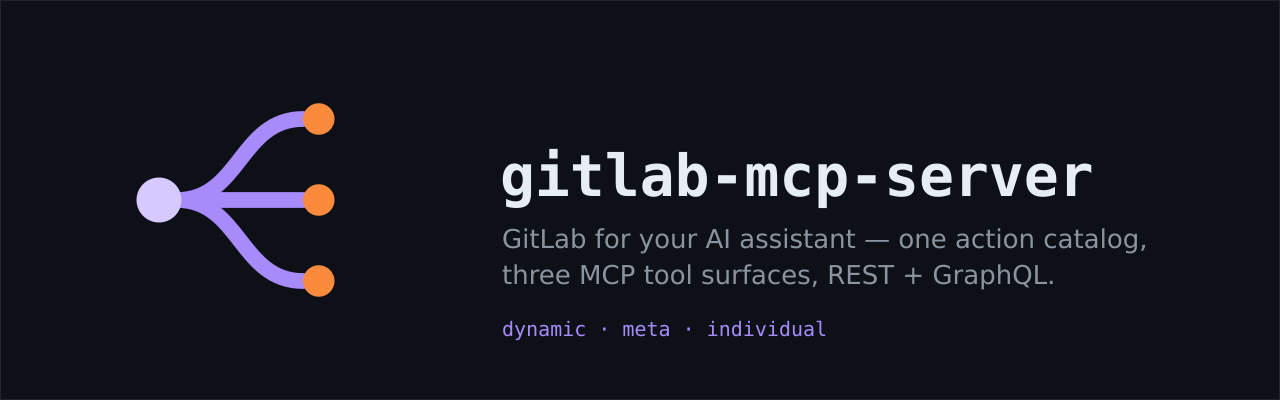
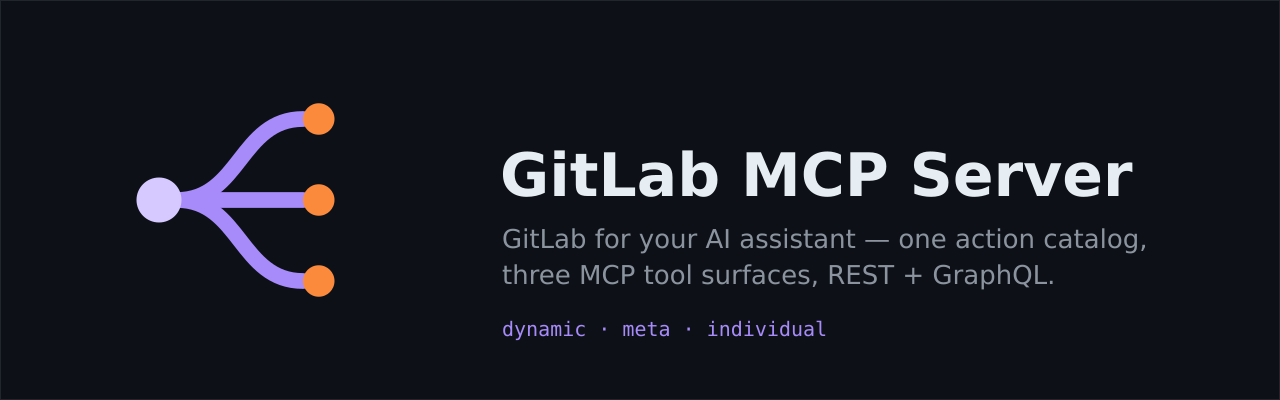
feat(site): page-title chips with a parity gate, and the display name on every presentation surface
Phase 5 (chips): frontmatter chips (zod-capped at four, qualities never
counts) rendered by a PageTitle override; link chips take the accent
ring via new chip-link tokens, measured by the contrast gate (66 pairs
now). Four page pairs carry them (getting started, configuration,
tools overview, compatibility), EN and ES in the same commit.
scripts/check-chips.mjs gates EN-ES chip parity and href existence in
pnpm lint — a frontmatter href is invisible to the links validator —
and was proven by breaking it both ways before trusting it.

Naming: the display name is "GitLab MCP Server" on presentation
surfaces (banner and OG wordmark in the sans, aria labels, landing
copy); the slug stays where it is an identifier (repo, commands,
packages).

Changed region(s): [[0.375, 0.36, 0.9062, 0.54]]

diff --git a/site/src/data/home.ts b/site/src/data/home.ts
@@ -75,7 +75,7 @@ const INSTALL = `claude mcp add gitlab --env GITLAB_URL=https://gitlab.example.c
   ghcr.io/jmrplens/gitlab-mcp-server:latest --http=false`;
 
 export const en: HomeContent = {
-	statsLabel: "gitlab-mcp-server at a glance",
+	statsLabel: "GitLab MCP Server at a glance",
 	statLabels: {
 		dynamic: "tools in the default dynamic surface",
 		tools: "individual tools at the widest tier",
@@ -91,7 +91,7 @@ export const en: HomeContent = {
 	what: {
 		title: "What it is",
 		body: [
-			'<strong>gitlab-mcp-server</strong> is a <a href="https://modelcontextprotocol.io">Model Context Protocol</a> server, written in Go, that lets an AI assistant work your GitLab for you: review merge requests, triage pipelines, manage issues, draft releases. It covers the REST v4 and GraphQL APIs and runs against GitLab.com or any self-hosted instance, Community or Enterprise Edition.',
+			'<strong>GitLab MCP Server</strong> is a <a href="https://modelcontextprotocol.io">Model Context Protocol</a> server, written in Go, that lets an AI assistant work your GitLab for you: review merge requests, triage pipelines, manage issues, draft releases. It covers the REST v4 and GraphQL APIs and runs against GitLab.com or any self-hosted instance, Community or Enterprise Edition.',
 			"You talk to your assistant, not to the tools. One canonical action catalog is projected into three tool surfaces, so the same operations fit a low-token client, a domain-tool client, or one tool per operation — and the assistant picks arguments from typed schemas, not from prose.",
 			"It ships as one static binary (or a container) for Linux, macOS and Windows, speaking stdio for a local client or HTTP for a shared, multi-user deployment.",
 		],
@@ -201,7 +201,7 @@ export const en: HomeContent = {
 };
 
 export const es: HomeContent = {
-	statsLabel: "gitlab-mcp-server de un vistazo",
+	statsLabel: "GitLab MCP Server de un vistazo",
 	statLabels: {
 		dynamic: "tools en la superficie dinámica por defecto",
 		tools: "tools individuales en el tier más amplio",
@@ -217,7 +217,7 @@ export const es: HomeContent = {
 	what: {
 		title: "Qué es",
 		body: [
-			'<strong>gitlab-mcp-server</strong> es un servidor <a href="https://modelcontextprotocol.io">Model Context Protocol</a>, escrito en Go, que permite a un asistente de IA trabajar tu GitLab por ti: revisar merge requests, triar pipelines, gestionar issues, redactar releases. Cubre las APIs REST v4 y GraphQL y funciona contra GitLab.com o cualquier instancia autoalojada, Community o Enterprise Edition.',
+			'<strong>GitLab MCP Server</strong> es un servidor <a href="https://modelcontextprotocol.io">Model Context Protocol</a>, escrito en Go, que permite a un asistente de IA trabajar tu GitLab por ti: revisar merge requests, triar pipelines, gestionar issues, redactar releases. Cubre las APIs REST v4 y GraphQL y funciona contra GitLab.com o cualquier instancia autoalojada, Community o Enterprise Edition.',
 			"Tú hablas con tu asistente, no con las herramientas. Un único catálogo canónico de acciones se proyecta en tres superficies de tools, de modo que las mismas operaciones sirven a un cliente de contexto reducido, a uno de tools por dominio o a uno con una tool por operación — y el asistente toma los argumentos de esquemas tipados, no de prosa.",
 			"Se distribuye como un binario estático (o un contenedor) para Linux, macOS y Windows, hablando stdio para un cliente local o HTTP para un despliegue compartido multiusuario.",
 		],

diff --git a/site/src/styles/page-chips.css b/site/src/styles/page-chips.css
@@ -1,0 +1,39 @@
+/* ------------------------------------------------------------------ *
+ * The chip row under a page title (src/components/docs/PageChips.astro).
+ *
+ * Outlined pills, not filled ones: the row sits directly under the largest
+ * type on the page and a run of filled shapes there competes with the title it
+ * is supposed to qualify. The border carries the state, the fill arrives only
+ * on hover, and both are palette tokens so the row follows the theme.
+ * ------------------------------------------------------------------ */
+.page-chips {
+	list-style: none;
+	margin: 0.75rem 0 0;
+	padding: 0;
+	display: flex;
+	flex-wrap: wrap;
+	gap: 0.4rem;
+}
+
+.page-chip {
+	display: inline-block;
+	font-size: var(--sl-text-2xs);
+	line-height: 1.6;
+	padding: 0.12em 0.65em;
+	border: 1px solid var(--gm-chip-line);
+	border-radius: 999px;
+	color: var(--gm-chip-ink);
+	text-decoration: none;
+	white-space: nowrap;
+}
+
+/* A chip that goes somewhere takes the accent ring, so the row reads as
+   "these three are facts, that one is a door". */
+a.page-chip-link {
+	border-color: var(--gm-chip-link-line);
+	color: var(--gm-chip-link-ink);
+}
+a.page-chip-link:hover,
+a.page-chip-link:focus-visible {
+	background: var(--gm-chip-link-fill);
+}

diff --git a/site/src/content.config.ts b/site/src/content.config.ts
@@ -22,6 +22,16 @@ export const collections = {
 				// page-level entity competing with the TechArticle. It also removes
 				// the de-facto 4-question ceiling those copied blocks settled into.
 				faq: z.array(z.object({ q: z.string(), a: z.string() })).optional(),
+				// Page-title chips: at most four short QUALITIES of the page —
+				// "Catalog-first", never "1065 tools". A number typed here would
+				// be a second copy of something stats.json already knows, and a
+				// fifth pill under the largest type on the page turns a
+				// qualifier into a paragraph. A chip with an href is a link and
+				// takes the accent ring; one without is a plain label.
+				chips: z
+					.array(z.object({ text: z.string(), href: z.string().optional() }))
+					.max(4)
+					.optional(),
 			}),
 		}),
 	}),

diff --git a/site/src/styles/theme.css b/site/src/styles/theme.css
@@ -100,6 +100,9 @@
 	   the 3:1 of WCAG 1.4.11 rather than to a decorative threshold. */
 	--gm-chip-ink: var(--sl-color-gray-2);
 	--gm-chip-line: var(--sl-color-gray-4);
+	--gm-chip-link-ink: var(--gm-accent-ink);
+	--gm-chip-link-line: var(--gm-mark);
+	--gm-chip-link-fill: var(--gm-accent-soft);
 	--gm-tier-ink: #f6c390;
 	--gm-tier-line: #9a6a2e;
 	--gm-tier-fill: #3a2710;
@@ -153,6 +156,9 @@
 
 	--gm-chip-ink: var(--sl-color-gray-2);
 	--gm-chip-line: var(--sl-color-gray-4);
+	--gm-chip-link-ink: var(--sl-color-accent);
+	--gm-chip-link-line: var(--gm-mark);
+	--gm-chip-link-fill: var(--gm-accent-soft);
 	--gm-tier-ink: #8a4d10;
 	--gm-tier-line: #bd7c32;
 	--gm-tier-fill: #faeedd;

diff --git a/cmd/gen_brand/main.go b/cmd/gen_brand/main.go
@@ -174,12 +174,12 @@ const svgBrand = `+"`%s`"+`
 // purpose: a figure would go stale between releases; figures live on
 // surfaces the generators re-stamp.
 func bannerSVG() string {
-	return fmt.Sprintf(`<svg xmlns="http://www.w3.org/2000/svg" viewBox="0 0 1280 400" role="img" aria-label="gitlab-mcp-server — GitLab for your AI assistant">
+	return fmt.Sprintf(`<svg xmlns="http://www.w3.org/2000/svg" viewBox="0 0 1280 400" role="img" aria-label="GitLab MCP Server — GitLab for your AI assistant">
   <rect width="1280" height="400" fill="%s"/>
   <rect x="0.5" y="0.5" width="1279" height="399" fill="none" stroke="#21262d"/>
   <g transform="translate(96,56) scale(4.5)">
 %s  </g>
-  <text x="500" y="196" font-family="DejaVu Sans Mono, monospace" font-weight="bold" font-size="58" fill="#e6edf3">gitlab-mcp-server</text>
+  <text x="500" y="196" font-family="DejaVu Sans, sans-serif" font-weight="bold" font-size="60" fill="#e6edf3">GitLab MCP Server</text>
   <text x="502" y="248" font-family="DejaVu Sans, sans-serif" font-size="26" fill="#8b949e">GitLab for your AI assistant — one action catalog,</text>
   <text x="502" y="284" font-family="DejaVu Sans, sans-serif" font-size="26" fill="#8b949e">three MCP tool surfaces, REST + GraphQL.</text>
   <text x="502" y="336" font-family="DejaVu Sans Mono, monospace" font-size="20" fill="%s">dynamic · meta · individual</text>
@@ -196,12 +196,12 @@ func bannerSVG() string {
 // stacked and centered. Rendered to site/public/og-image.png by
 // `make brand-rasters`.
 func ogSVG() string {
-	return fmt.Sprintf(`<svg xmlns="http://www.w3.org/2000/svg" viewBox="0 0 1200 630" role="img" aria-label="gitlab-mcp-server — GitLab for your AI assistant">
+	return fmt.Sprintf(`<svg xmlns="http://www.w3.org/2000/svg" viewBox="0 0 1200 630" role="img" aria-label="GitLab MCP Server — GitLab for your AI assistant">
   <rect width="1200" height="630" fill="%s"/>
   <rect x="0.5" y="0.5" width="1199" height="629" fill="none" stroke="#21262d"/>
   <g transform="translate(444,88) scale(4.875)">
 %s  </g>
-  <text x="600" y="470" text-anchor="middle" font-family="DejaVu Sans Mono, monospace" font-weight="bold" font-size="64" fill="#e6edf3">gitlab-mcp-server</text>
+  <text x="600" y="470" text-anchor="middle" font-family="DejaVu Sans, sans-serif" font-weight="bold" font-size="64" fill="#e6edf3">GitLab MCP Server</text>
   <text x="600" y="524" text-anchor="middle" font-family="DejaVu Sans, sans-serif" font-size="27" fill="#8b949e">GitLab for your AI assistant — one catalog, three MCP surfaces</text>
   <text x="600" y="574" text-anchor="middle" font-family="DejaVu Sans Mono, monospace" font-size="21" fill="%s">jmrplens.github.io/gitlab-mcp-server</text>
 </svg>

diff --git a/README.md b/README.md
@@ -1,5 +1,5 @@
 <p align="center">
-  <img alt="gitlab-mcp-server — GitLab for your AI assistant: one action catalog, three MCP tool surfaces" src=".github/brand/banner.webp" width="100%">
+  <img alt="GitLab MCP Server — GitLab for your AI assistant: one action catalog, three MCP tool surfaces" src=".github/brand/banner.webp" width="100%">
 </p>
 
 # GitLab MCP Server
